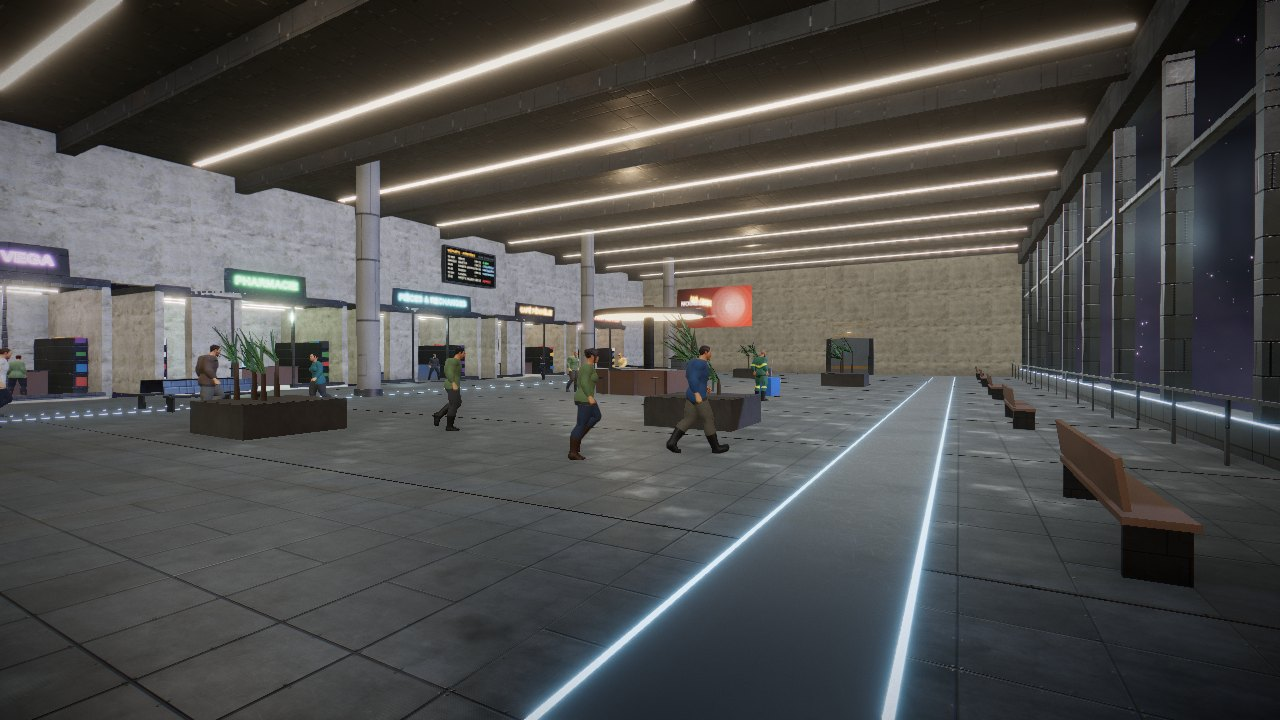
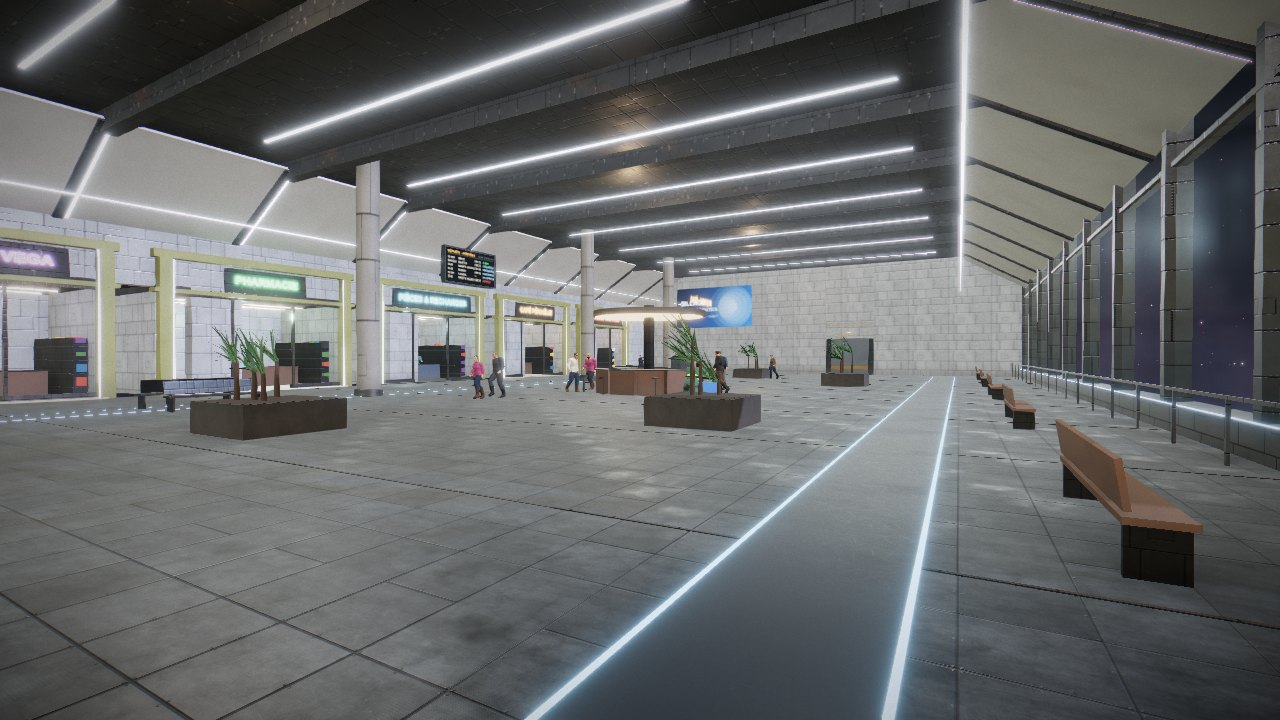
Direction artistique façon station claire : lumière froide, sol peint à marquages blancs/bleus, cadres olive, plafond LED incliné ; armure du joueur et de la sécurité ; caméra à l'épaule
Claude-Session: https://claude.ai/code/session_019QAHc3pAJY3ND6FYbNV2Xx

diff --git a/src/characters/armor.js b/src/characters/armor.js
@@ -1,0 +1,89 @@
+import * as THREE from 'three';
+import { mergeGeometries } from 'three/addons/utils/BufferGeometryUtils.js';
+import { RoundedBoxGeometry } from 'three/addons/geometries/RoundedBoxGeometry.js';
+
+// Armure articulée (plastron, sac dorsal, épaulières, protège-avant-bras, cuissardes, genouillères,
+// ceinture à poches) : pièces rigides construites en pose de repos puis accrochées aux os.
+
+const RB = (w, h, d, r = 0.02) => new RoundedBoxGeometry(w, h, d, 2, r);
+
+function armorMaterials(colors) {
+  const plate = new THREE.MeshStandardMaterial({ color: colors.plate ?? 0x2e3439, roughness: 0.42, metalness: 0.55 });
+  const under = new THREE.MeshStandardMaterial({ color: colors.under ?? 0x1a1d20, roughness: 0.7, metalness: 0.3 });
+  const accent = new THREE.MeshStandardMaterial({ color: colors.accent ?? 0x8a7a3a, roughness: 0.5, metalness: 0.3 });
+  const light = new THREE.MeshBasicMaterial({ color: new THREE.Color(colors.light ?? 0x5fe6c8).multiplyScalar(3) });
+  return { plate, under, accent, light };
+}
+
+/**
+ * bones : dictionnaire nom -> os (pose de repos, matrices monde à jour).
+ * Renvoie une liste de { bone, mesh } à accrocher.
+ */
+export function buildArmor(bones, colors = {}) {
+  const M = armorMaterials(colors);
+  const wp = (n) => bones[n].getWorldPosition(new THREE.Vector3());
+  const pieces = [];   // { bone, mat, geo (en coordonnées monde de repos) }
+  const put = (bone, mat, geo, pos, rot = [0, 0, 0]) => {
+    geo.applyMatrix4(new THREE.Matrix4().compose(new THREE.Vector3(...pos), new THREE.Quaternion().setFromEuler(new THREE.Euler(...rot)), new THREE.Vector3(1, 1, 1)));
+    pieces.push({ bone, mat, geo });
+  };
+  const chest = wp('spine_03'), sp2 = wp('spine_02'), sp1 = wp('spine_01'), neck = wp('neck_01'), pelvis = wp('pelvis');
+  // plastron (deux plaques + plaque ventrale) et col
+  put('spine_03', M.plate, RB(0.36, 0.26, 0.09, 0.03), [0, chest.y + 0.03, chest.z + 0.14], [-0.08, 0, 0]);
+  put('spine_03', M.accent, RB(0.12, 0.08, 0.03, 0.01), [0.1, chest.y + 0.08, chest.z + 0.19], [-0.08, 0, 0]);
+  put('spine_03', M.light, new THREE.BoxGeometry(0.05, 0.012, 0.01), [-0.11, chest.y + 0.1, chest.z + 0.19]);
+  put('spine_02', M.plate, RB(0.3, 0.13, 0.07, 0.025), [0, sp2.y - 0.02, sp2.z + 0.13]);
+  put('spine_01', M.under, RB(0.28, 0.1, 0.06, 0.02), [0, sp1.y, sp1.z + 0.12]);
+  put('spine_03', M.under, new THREE.TorusGeometry(0.11, 0.035, 8, 18), [0, neck.y - 0.03, neck.z - 0.01], [Math.PI / 2, 0, 0]);
+  // sac dorsal : caisson, ailettes, réservoirs, voyants
+  put('spine_03', M.plate, RB(0.34, 0.42, 0.15, 0.03), [0, chest.y - 0.03, chest.z - 0.2]);
+  put('spine_03', M.under, RB(0.2, 0.2, 0.05, 0.01), [0, chest.y - 0.06, chest.z - 0.29]);
+  for (let i = 0; i < 4; i++) put('spine_03', M.under, new THREE.BoxGeometry(0.16, 0.012, 0.02), [0, chest.y - 0.14 + i * 0.035, chest.z - 0.32]);
+  for (const s of [-1, 1]) {
+    put('spine_03', M.accent, new THREE.CylinderGeometry(0.04, 0.04, 0.34, 12), [s * 0.2, chest.y - 0.05, chest.z - 0.2]);
+    put('spine_03', M.light, new THREE.BoxGeometry(0.02, 0.02, 0.01), [s * 0.1, chest.y + 0.15, chest.z - 0.28]);
+  }
+  // épaulières, brassards, protège-avant-bras, gants renforcés
+  for (const [s, side] of [[1, 'l'], [-1, 'r']]) {
+    const sh = wp(`upperarm_${side}`), el = wp(`lowerarm_${side}`), wr = wp(`hand_${side}`);
+    put(`upperarm_${side}`, M.plate, RB(0.19, 0.09, 0.2, 0.035), [sh.x + s * 0.06, sh.y + 0.075, sh.z], [0, 0, s * -0.25]);
+    put(`upperarm_${side}`, M.accent, RB(0.17, 0.03, 0.18, 0.01), [sh.x + s * 0.07, sh.y + 0.125, sh.z], [0, 0, s * -0.25]);
+    const mid = el.clone().lerp(sh, 0.45);
+    put(`upperarm_${side}`, M.under, new THREE.CylinderGeometry(0.062, 0.058, 0.14, 12), [mid.x, mid.y, mid.z], [0, 0, Math.PI / 2]);
+    const fa = el.clone().lerp(wr, 0.55);
+    put(`lowerarm_${side}`, M.plate, new THREE.CylinderGeometry(0.058, 0.05, Math.abs(wr.x - el.x) * 0.62, 12), [fa.x, fa.y, fa.z], [0, 0, Math.PI / 2]);
+    put(`lowerarm_${side}`, M.light, new THREE.BoxGeometry(0.03, 0.01, 0.02), [fa.x, fa.y + 0.058, fa.z + 0.02]);
+    put(`hand_${side}`, M.under, RB(0.08, 0.04, 0.09, 0.012), [wr.x + s * 0.06, wr.y + 0.025, wr.z]);
+  }
+  // ceinture à poches
+  put('pelvis', M.under, new THREE.CylinderGeometry(0.17, 0.165, 0.06, 20), [0, pelvis.y + 0.07, pelvis.z]);
+  for (const a of [-0.9, -0.3, 0.3, 0.9, 2.6]) put('pelvis', M.accent, RB(0.07, 0.08, 0.04, 0.01), [Math.sin(a) * 0.18, pelvis.y + 0.05, Math.cos(a) * 0.16 + pelvis.z], [0, a, 0]);
+  // cuissardes et genouillères
+  for (const side of ['l', 'r']) {
+    const th = wp(`thigh_${side}`), kn = wp(`calf_${side}`), an = wp(`foot_${side}`);
+    const t = th.clone().lerp(kn, 0.5);
+    put(`thigh_${side}`, M.plate, RB(0.12, 0.2, 0.05, 0.02), [t.x, t.y, t.z + 0.085]);
+    put(`calf_${side}`, M.plate, RB(0.11, 0.11, 0.06, 0.03), [kn.x, kn.y + 0.01, kn.z + 0.085]);
+    const c = kn.clone().lerp(an, 0.45);
+    put(`calf_${side}`, M.under, RB(0.1, 0.18, 0.05, 0.02), [c.x, c.y, c.z + 0.075]);
+  }
+  // fusion par (os, matériau) puis passage dans le repère de l'os
+  const groups = new Map();
+  for (const p of pieces) {
+    const k = p.bone + '|' + p.mat.uuid;
+    if (!groups.has(k)) groups.set(k, { bone: p.bone, mat: p.mat, geos: [] });
+    const g = p.geo.index ? p.geo.toNonIndexed() : p.geo;
+    for (const a of Object.keys(g.attributes)) if (!['position', 'normal'].includes(a)) g.deleteAttribute(a);
+    groups.get(k).geos.push(g);
+  }
+  const out = [];
+  for (const g of groups.values()) {
+    const geo = mergeGeometries(g.geos, false);
+    const inv = new THREE.Matrix4().copy(bones[g.bone].matrixWorld).invert();
+    geo.applyMatrix4(inv);
+    const mesh = new THREE.Mesh(geo, g.mat);
+    mesh.castShadow = true; mesh.receiveShadow = true;
+    out.push({ bone: g.bone, mesh });
+  }
+  return out;
+}

diff --git a/src/world/gallery.js b/src/world/gallery.js
@@ -21,7 +21,7 @@ export function buildGallery(ctx) {
   seed(4242);
   const G = GALLERY;
   const cx = (G.x0 + G.x1) / 2, cz = (G.z0 + G.z1) / 2, W = G.x1 - G.x0, D = G.z1 - G.z0;
-  const wall = mats.plaster(0xcfc9bd);
+  const wall = mats.paint(0xd4d9dd, { grime: 0.3, scratch: 0.3, rust: 0, rough: 0.6 });
   const wallDark = mats.paint(0x3a3e42, { grime: 0.6 });
   const trim = mats.metal(0x8c9094, { rough: 0.35, grime: 0.3 });
   const dark = mats.paint(0x24282b);
@@ -49,6 +49,11 @@ export function buildGallery(ctx) {
       B.box(0.7, 0.5, w + 1.2, dark, [x, h + 0.25, z]);
       for (const s of [-1, 1]) B.box(0.7, h, 0.5, dark, [x, h / 2, z + s * (w / 2 + 0.25)], null, { collide: true });
       B.box(0.72, 0.18, w + 1.2, mats.paint(0xc89a1e), [x, h + 0.05, z], null, { cast: false });
+    }
+    const oliveA = mats.paint(0x7a7a3a, { plain: true, rough: 0.5, grime: 0.5 });
+    for (const x of [-HX - 0.05, G.x1 + 0.05]) {
+      for (const s2 of [-1, 1]) B.box(0.8, h + 1.4, 0.6, oliveA, [x, (h + 1.4) / 2, z + s2 * (w / 2 + 0.7)], null, { collide: true });
+      B.box(0.8, 0.6, w + 2.0, oliveA, [x, h + 1.1, z]);
     }
     ctx.airlockDoors = [
       makeDoor(ctx, -HX - 0.3, z, w, h, 'SAS 2 · HANGAR 07'),
@@ -90,7 +95,20 @@ export function buildGallery(ctx) {
       B.box(0.5, 0.7, D, wallDark, [x, G.h - 0.35, cz], null, { cast: false });
     }
     for (let x = G.x0 + 6; x < G.x1 - 1; x += 6) {
-      B.box(0.25, 0.05, D - 4, mats.emissive(0xffe6c8, 3.2), [x, G.h - 0.72, cz - 1], null, { cast: false });
+      B.box(0.12, 0.05, D - 14, mats.emissive(0xe6f0ff, 4.0), [x, G.h - 0.72, cz - 1], null, { cast: false });
+    }
+    // plafond à pans inclinés le long des deux façades, bordés de bandes LED (lignes obliques)
+    const panel = mats.paint(0xc9ced2, { plain: true, rough: 0.5, grime: 0.25, floor: 0 });
+    const led = mats.emissive(0xe6f0ff, 5.0);
+    for (const [zEdge, dir] of [[G.z1, -1], [G.z0, 1]]) {
+      const ang = 0.55, len = 5.2;
+      const zc = zEdge + dir * Math.cos(ang) * len / 2, yc = G.h - 0.3 - Math.sin(ang) * len / 2;
+      B.box(W, 0.12, len, panel, [cx, yc, zc], [dir * -ang, 0, 0], { cast: false, tex: 3 });
+      for (let x = G.x0 + 3; x < G.x1; x += 6) {
+        B.box(0.1, 0.06, len, led, [x, yc - 0.07, zc], [dir * -ang, 0, 0], { cast: false });
+        B.box(0.3, 0.2, len, wallDark, [x + 0.25, yc - 0.06, zc], [dir * -ang, 0, 0], { cast: false });
+      }
+      B.box(W, 0.05, 0.08, led, [cx, G.h - 0.3 - Math.sin(ang) * len - 0.05, zEdge + dir * Math.cos(ang) * len], null, { cast: false });
     }
   }
 
@@ -269,6 +287,12 @@ function shop(ctx, s, wall, wallDark, trim) {
     L.box(2.8, 0.25, 0.2, trim, [sx * 2.7, 0.12, 0.05], null, { cast: false });
   }
   L.box(w, 0.12, 0.2, trim, [0, h - 0.06, 0.05]);
+  // cadre structurel vert olive autour de la devanture + bandeau d'enseigne
+  const olive = mats.paint(0x7a7a3a, { plain: true, rough: 0.5, grime: 0.5 });
+  for (const sx of [-1, 1]) L.box(0.45, h + 1.6, 0.5, olive, [sx * (w / 2 + 0.05), (h + 1.6) / 2, -0.15]);
+  L.box(w + 0.9, 0.35, 0.5, olive, [0, h + 1.6, -0.15]);
+  L.box(w + 0.9, 0.18, 0.55, olive, [0, h + 0.05, -0.15]);
+  for (const sx of [-1, 1]) L.box(0.06, h + 1.4, 0.06, mats.emissive(0xe6f0ff, 2.2), [sx * (w / 2 - 0.2), (h + 1.4) / 2, -0.42], null, { cast: false });
   // enseigne néon
   const nt = neonTexture(s.name, s.color, { size: 110 });
   const nh = 1.05, nw = Math.min(nh * nt.aspect, 7.6);

diff --git a/src/world/hangar.js b/src/world/hangar.js
@@ -10,7 +10,7 @@ export function buildHangar(ctx) {
   const { scene, mats, builder: B, quality } = ctx;
   seed(1234);
 
-  const wallPaint = mats.cladding(0x8a9094, { rust: 0.2 });
+  const wallPaint = mats.cladding(0xc4cacf, { rust: 0.05, grime: 0.45 });
   const wallLow = mats.diamond(0x9a9c9e);
   const trim = mats.paint(0x2c3134, { grime: 0.8 });
   const steel = mats.metal(0x6b6f72);
@@ -30,7 +30,7 @@ export function buildHangar(ctx) {
   const floorGeo = new THREE.PlaneGeometry(floorW, floorD, 1, 1);
   floorGeo.rotateX(-Math.PI / 2);
   floorGeo.translate(0, 0, (Z_BACK + Z_BAY) / 2);
-  worldUV(floorGeo, 4.5);
+  worldUV(floorGeo, 8);
   const floor = new THREE.Mesh(floorGeo, mats.deck());
   floor.receiveShadow = true;
   scene.add(floor);
@@ -545,7 +545,7 @@ function floorMarkings(quality) {
   const paint = (color, alpha = 0.9) => { ctx.fillStyle = color; ctx.strokeStyle = color; ctx.globalAlpha = alpha; };
 
   // voies piétonnes le long des murs (bande verte + pointillés blancs)
-  paint('#3f8f5a', 0.55);
+  paint('#2f6f9f', 0.45);
   ctx.fillRect(X(-HX + 1.6), Z(Z_BAY + 3), 2.2 * ppm, Z(Z_BACK - 1) - Z(Z_BAY + 3));
   ctx.fillRect(X(HX - 3.8), Z(Z_BAY + 3), 2.2 * ppm, Z(Z_BACK - 1) - Z(Z_BAY + 3));
   paint('#e8e4d8', 0.85);
@@ -553,7 +553,7 @@ function floorMarkings(quality) {
     for (let z = Z_BAY + 3; z < Z_BACK - 2; z += 1.6) ctx.fillRect(X(x) - 0.06 * ppm, Z(z), 0.12 * ppm, 0.8 * ppm);
   }
   // voie véhicules (jaune double) en boucle
-  paint('#d8a420', 0.85);
+  paint('#f2f4f6', 0.9);
   const lane = (x0, z0, x1, z1) => { ctx.lineWidth = 0.14 * ppm; ctx.strokeRect(X(x0), Z(z0), (x1 - x0) * ppm, (z1 - z0) * ppm); };
   lane(-HX + 6.8, -33, HX - 6.8, Z_BACK - 4);
   lane(-HX + 6.4, -33.4, HX - 6.4, Z_BACK - 3.6);
@@ -572,7 +572,7 @@ function floorMarkings(quality) {
     const p = PADS[k];
     const cx = X(p.x), cz = Z(p.z), r = p.r * ppm;
     ctx.save();
-    paint('#d8a420', 0.8);
+    paint('#5fb4ff', 0.85);
     ctx.lineWidth = 0.35 * ppm;
     ctx.beginPath(); ctx.arc(cx, cz, r, 0, Math.PI * 2); ctx.stroke();
     ctx.lineWidth = 0.12 * ppm;

diff --git a/src/world/lighting.js b/src/world/lighting.js
@@ -24,14 +24,14 @@ export function buildLighting(ctx) {
     tex.mapping = THREE.EquirectangularReflectionMapping;
     const env = pmrem.fromEquirectangular(tex).texture;
     scene.environment = env;
-    scene.environmentIntensity = 0.55;
+    scene.environmentIntensity = 0.85;
     scene.environmentRotation = new THREE.Euler(0, 1.2, 0);
     tex.dispose();
     out.env = env;
   }).catch((e) => console.warn('HDRI', e));
 
   // ------------------------------------------------------------- lumière planétaire (froide)
-  const sun = new THREE.DirectionalLight(0x9fbfff, 3.6);
+  const sun = new THREE.DirectionalLight(0xc4d6ff, 4.2);
   sun.position.copy(KEY_DIR).multiplyScalar(120).add(new THREE.Vector3(0, 0, -10));
   sun.target.position.set(0, 0, -10);
   sun.castShadow = quality.shadows;
@@ -45,11 +45,11 @@ export function buildLighting(ctx) {
   out.sun = sun;
 
   // ciel bleu de rebond faible, sol chaud
-  const hemi = new THREE.HemisphereLight(0x8094b4, 0x3a2c1e, 0.38);
+  const hemi = new THREE.HemisphereLight(0xb8c8de, 0x4a4a48, 0.75);
   scene.add(hemi);
 
   // ------------------------------------------------------------- plafonniers : rampes linéaires émissives
-  const lampMat = mats.emissive(0xffc58a, 7);
+  const lampMat = mats.emissive(0xe8f2ff, 7);
   const housing = mats.paint(0x2c3134);
   const fixtures = [];
   for (const z of [-33, -21, -9, 3, 15, 25]) {
@@ -72,7 +72,7 @@ export function buildLighting(ctx) {
   let shadowsLeft = quality.spotShadows;
   for (let i = 0; i < nSpots; i++) {
     const [x, z, big] = spotDefs[i];
-    const s = new THREE.SpotLight(0xffb36b, big ? 3800 : 2200, 60, big ? 0.7 : 0.6, 0.75, 2);
+    const s = new THREE.SpotLight(0xf0f4ff, big ? 5200 : 3200, 60, big ? 0.8 : 0.7, 0.7, 2);
     s.position.set(x, H - 4.2, z);
     s.target.position.set(x, 0, z);
     if (big && shadowsLeft > 0) {

diff --git a/src/main.js b/src/main.js
@@ -38,7 +38,7 @@ async function boot() {
   const renderer = new Renderer($('view'), quality);
   const scene = new THREE.Scene();
   scene.background = new THREE.Color(0x000000);
-  scene.fog = new THREE.FogExp2(0x262a30, 0.0095);
+  scene.fog = new THREE.FogExp2(0x6a7480, 0.0042);
   const camera = new THREE.PerspectiveCamera(touch ? 72 : 70, innerWidth / innerHeight, 0.05, 12000);
   camera.position.set(0, 1.7, 20);
 
@@ -73,7 +73,8 @@ async function boot() {
   builder.finalize();
   ctx.fx = buildFX(ctx);
   const player = new Player(ctx, builder.collisionGeometry());
-  player.setAvatar(lib.create('UM_light', { height: 1.8, hair: 'Hair_SimpleParted', hairColor: 0x3a2618, outfit: { top: 0x3c4650, accent: 0xd86a20, hivis: true, gloves: true } }));
+  player.setAvatar(lib.create('UM_light', { height: 1.82, hair: 'Hair_Buzzed', hairColor: 0x2a1d14, outfit: { top: 0x2b3036, bottom: 0x2b3036, boot: 0x16181a, accent: 0x6f86a8, gloves: true, zip: false }, armor: { plate: 0x3a4148, under: 0x1b1e21, accent: 0x6e6a3a, light: 0x5fe6c8 } }));
+  player.thirdPerson = true; player.camDist = 2.6;
   if (shotName === 'lineup' || shotName === 'portrait') {
     const roles = [['mécanicien', 'M'], ['pilote', 'F'], ['sécurité', 'M'], ['client', 'F'], ['ravitailleur', 'M'], ['client', 'M'], ['entretien', 'F']];
     roles.forEach(([r, g], i) => crowd.spawn(r, g, function* (a) {
@@ -97,7 +98,7 @@ async function boot() {
     for (const v of [scenes.forklift.obj.group, scenes.tug.obj.group]) v.traverse((o) => { o.castShadow = false; });
   }
   renderer.setupPost(scene, camera);
-  renderer.setExposure(1.0);
+  renderer.setExposure(1.15);
   renderer.resize();
   addEventListener('resize', () => renderer.resize());
   const input = new Input($('view'));

diff --git a/src/characters/characters.js b/src/characters/characters.js
@@ -4,6 +4,7 @@ import * as SkeletonUtils from 'three/addons/utils/SkeletonUtils.js';
 import { Retargeter } from './retarget.js';
 import { loadBinary } from '../core/binary.js';
 import { buildGarment, skinMaterial } from './garment.js';
+import { buildArmor } from './armor.js';
 import { mergeGeometries } from 'three/addons/utils/BufferGeometryUtils.js';
 
 // Bibliothèque de personnages : « Universal Base Characters » de Quaternius (CC0) habillés
@@ -154,6 +155,20 @@ export class CharacterLibrary {
     this.templates[name] = { scene, height, skel: name.slice(0, 2), headInv, zones };
   }
 
+  /** Pièces d'armure (géométries en repère d'os), mises en cache par corps et par couleurs. */
+  armorFor(name, colors) {
+    const key = name + JSON.stringify(colors);
+    this._armor = this._armor || {};
+    if (!this._armor[key]) {
+      const t = this.templates[name];
+      t.scene.updateMatrixWorld(true);
+      const bones = {};
+      t.scene.traverse((o) => { if (o.isBone) bones[o.name] = o; });
+      this._armor[key] = buildArmor(bones, colors);
+    }
+    return this._armor[key];
+  }
+
   create(name, opts = {}) {
     return new Character(this, name, opts);
   }
@@ -197,6 +212,13 @@ export class Character {
       if (o.name === 'body') this.body = o;
     });
     this.bones.Neck = this.bones.neck_01;
+    if (opts.armor) {
+      for (const p of lib.armorFor(name, opts.armor)) {
+        const m = new THREE.Mesh(p.mesh.geometry, p.mesh.material);
+        m.castShadow = opts.armorShadows ?? true; m.receiveShadow = true;
+        this.bones[p.bone].add(m);
+      }
+    }
     this.handR = this.bones.hand_r;
     // coiffure accrochée à l'os de tête
     if (opts.hair && lib.hairs[opts.hair]) {

diff --git a/src/world/materials.js b/src/world/materials.js
@@ -217,10 +217,11 @@ export class Materials {
   deck() {
     if (this.cache.deck) return this.cache.deck;
     // sol : scan Poly Haven « hangar_concrete_floor » (béton de hangar taché)
+    // sol : pont métallique peint gris clair (plaques, joints), légèrement satiné
     const m = new THREE.MeshStandardMaterial({
-      color: 0xd8d4cc, map: this.tex.hangar_concrete_floor_diff, normalMap: this.tex.hangar_concrete_floor_nor,
-      roughnessMap: this.tex.hangar_concrete_floor_arm, aoMap: this.tex.hangar_concrete_floor_arm,
-      roughness: 0.95, metalness: 0, aoMapIntensity: 0.8,
+      color: 0xe2e6ea, map: this.tex.deck_a, normalMap: this.tex.deck_n, roughnessMap: this.tex.deck_orm,
+      aoMap: this.tex.deck_orm, roughness: 0.75, metalness: 0.2, aoMapIntensity: 0.7,
+      normalScale: new THREE.Vector2(0.7, 0.7),
     });
     this.addWear(m, { grime: 0.6, floor: 0.0, scratch: 0.1, scale: 0.08, rust: 0.0 });
     return (this.cache.deck = m);
@@ -230,7 +231,7 @@ export class Materials {
   stationFloor() {
     if (this.cache.stationFloor) return this.cache.stationFloor;
     const m = new THREE.MeshStandardMaterial({
-      color: 0xa9b0b6, map: this.tex.deck_a, normalMap: this.tex.deck_n, roughnessMap: this.tex.deck_orm,
+      color: 0xd2d8dc, map: this.tex.deck_a, normalMap: this.tex.deck_n, roughnessMap: this.tex.deck_orm,
       aoMap: this.tex.deck_orm, roughness: 0.55, metalness: 0.55, aoMapIntensity: 0.6,
       normalScale: new THREE.Vector2(0.6, 0.6),
     });

diff --git a/src/world/fx.js b/src/world/fx.js
@@ -36,7 +36,7 @@ export function buildFX(ctx) {
   if (quality.beams) {
     const dir = PLANET_DIR.clone().negate(); // sens de propagation
     const mat = new THREE.ShaderMaterial({
-      uniforms: { uColor: { value: new THREE.Color(0.11, 0.165, 0.27) }, uTime: time, uFade: { value: 1.6 }, uNoise: { value: noise } },
+      uniforms: { uColor: { value: new THREE.Color(0.05, 0.07, 0.11) }, uTime: time, uFade: { value: 1.6 }, uNoise: { value: noise } },
       vertexShader: beamVS, fragmentShader: beamFS, transparent: true, depthWrite: false, blending: THREE.AdditiveBlending, side: THREE.DoubleSide,
     });
     // ouvertures : vitrages latéraux et bandeau haut (entre meneaux)
@@ -75,7 +75,7 @@ export function buildFX(ctx) {
   // cônes sous les plafonniers (lumière chaude dans la poussière)
   if (quality.beams && ctx.lights) {
     const mat = new THREE.ShaderMaterial({
-      uniforms: { uColor: { value: new THREE.Color(0.07, 0.045, 0.022) }, uTime: time, uFade: { value: 1.2 }, uNoise: { value: noise } },
+      uniforms: { uColor: { value: new THREE.Color(0.02, 0.022, 0.026) }, uTime: time, uFade: { value: 1.2 }, uNoise: { value: noise } },
       vertexShader: beamVS, fragmentShader: beamFS, transparent: true, depthWrite: false, blending: THREE.AdditiveBlending, side: THREE.DoubleSide,
     });
     const cone = new THREE.CylinderGeometry(0.4, 5.5, 16, 20, 1, true);

diff --git a/src/player/player.js b/src/player/player.js
@@ -124,7 +124,7 @@ export class Player {
 
   _updateCamera(dt) {
     const cam = this.camera;
-    const want = this.thirdPerson ? 3.0 : 0;
+    const want = this.thirdPerson ? 2.35 : 0;
     this.camDist += (want - this.camDist) * (1 - Math.exp(-dt * 6));
     const moving = this.grounded && this.speed > 0.3;
     this.bob += dt * this.speed * 2.2 * (moving ? 1 : 0);
@@ -134,7 +134,7 @@ export class Player {
     const q = new THREE.Quaternion().setFromEuler(new THREE.Euler(this.pitch, this.yaw, 0, 'YXZ'));
     if (this.camDist > 0.05) {
       // épaule droite, recul limité par la géométrie
-      const back = new THREE.Vector3(0.45, 0.15, this.camDist).applyQuaternion(q);
+      const back = new THREE.Vector3(0.58, 0.02, this.camDist).applyQuaternion(q);
       const len = back.length();
       _ray.origin.copy(eye); _ray.direction.copy(back).normalize();
       const hit = this.bvh.raycastFirst(_ray, THREE.DoubleSide);

diff --git a/src/ai/crowd.js b/src/ai/crowd.js
@@ -424,6 +424,8 @@ export class Crowd {
       outfit: opts.outfit ?? outfitFor(role),
       hair: pick(HAIRS[g]), hairColor: pick(HAIR_COLORS),
       formal: role === 'commerçant',
+      armor: role === 'sécurité' ? { plate: 0x2a3138, under: 0x16191c, accent: 0x3e5a7a, light: 0x6fb8ff } : null,
+      armorShadows: !!this.ctx.quality.npcShadows,
     });
     this.ctx.scene.add(c.root);
     const a = new Agent(this, c, role, routine, { walkSpeed: opts.walk, x: opts.x, z: opts.z, yaw: opts.yaw });

diff --git a/src/shots.js b/src/shots.js
@@ -31,5 +31,6 @@ export const SHOTS = {
   heronhold: { pos: [-11.6, 3.6, 0.2], look: [-14.2, 3.0, -17], fov: 70 },
   heronupper: { pos: [-13, 6.9, -3.2], look: [-13, 6.3, -19], fov: 70 },
   heronbridge: { pos: [-13, 7.1, -22.2], look: [-13, 6.6, -33], fov: 70 },
+  tpgallery: { pos: [-50, 1.7, -2], look: [-80, 1.6, -2], fov: 70 },
   cockpit: { pos: [-13, 3.2, -22], look: [-13, 3, -40], fov: 70 },
 };
